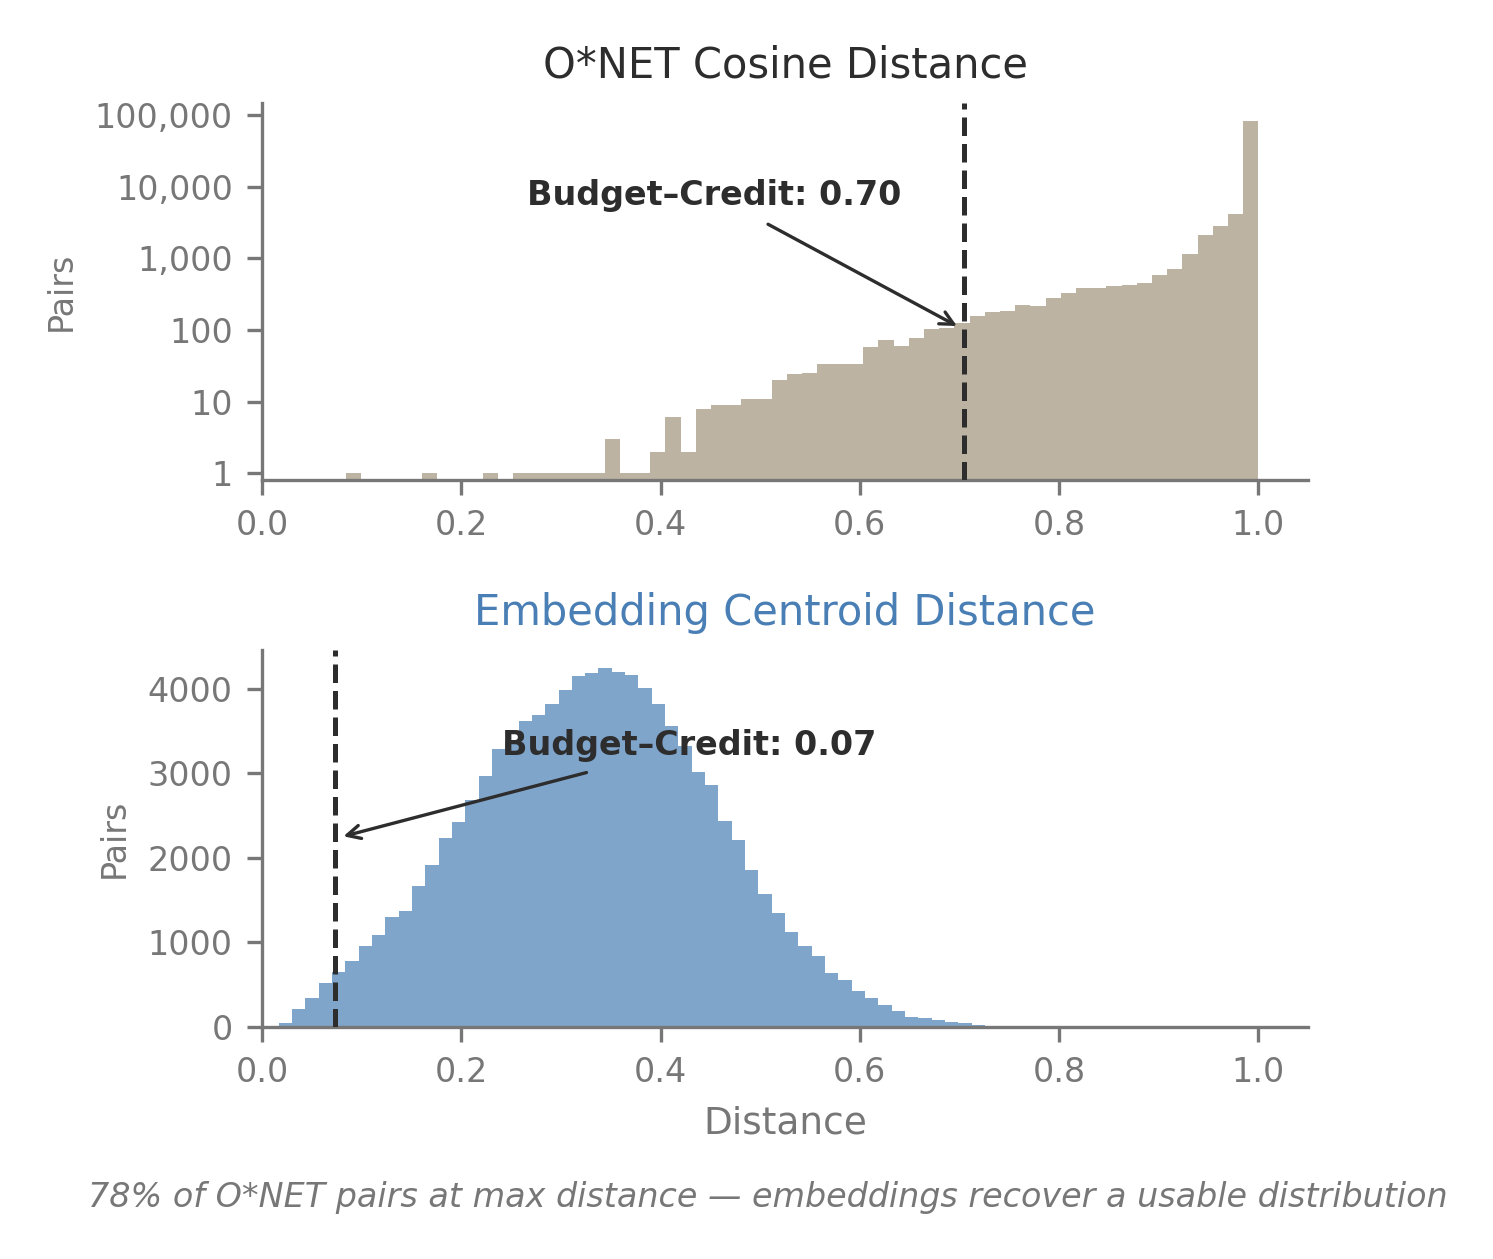
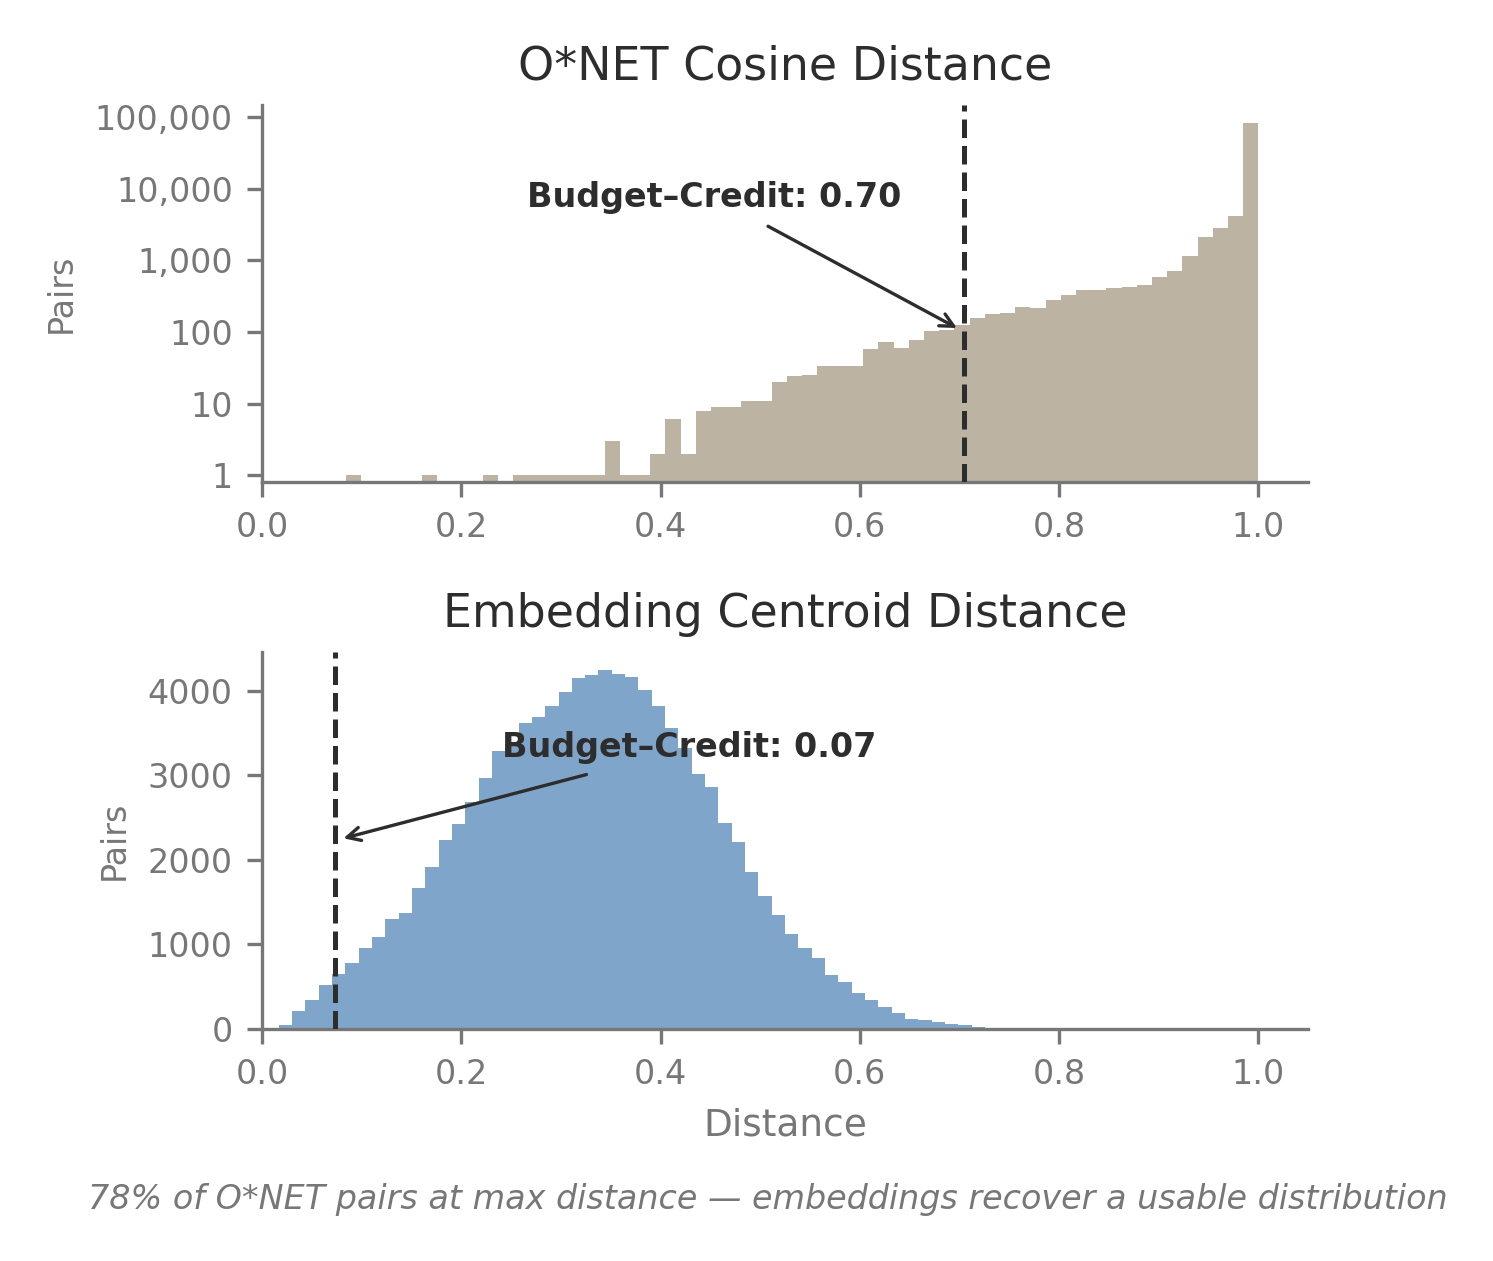
v0.7.10.21: Standardize fonts/colors across all 9 figures
- style.py: axes.labelcolor DARK → MID
- fig3: axis labels use FONT_TITLE
- fig4: value labels FONT_TITLE, ticks FONT_TICK, ylabel via rcParams
- fig5: occupation headers FONT_TITLE, sub-headers/subtitle FONT_NOTE
- fig6: annotations FONT_TICK, titles FONT_TITLE (both DARK), xlabel FONT_LABEL
- fig7: stage labels FONT_TITLE, counts FONT_TICK

diff --git a/figures/fig6_embedding_similarity.py b/figures/fig6_embedding_similarity.py
@@ -9,7 +9,8 @@ sys.path.insert(0, os.path.join(os.path.dirname(__file__), '..'))
 import numpy as np
 import matplotlib.pyplot as plt
 
-from figures.style import setup, PRIMARY, SECONDARY, DARK, MID, GRID, format_log_ticks, add_subtitle
+from figures.style import (setup, PRIMARY, SECONDARY, DARK, MID, GRID, format_log_ticks,
+                           add_subtitle, FONT_TITLE, FONT_LABEL, FONT_TICK)
 
 font = setup()
 
@@ -48,14 +49,14 @@ fig.canvas.draw()
 ax1.annotate(f'Budget\u2013Credit: {d_onet_pair:.2f}',
              xy=(d_onet_pair, 100),
              xytext=(-15, 30), textcoords='offset points',
-             fontsize=8, color=DARK, fontweight='bold', ha='right',
+             fontsize=FONT_TICK, color=DARK, fontweight='bold', ha='right',
              arrowprops=dict(arrowstyle='->', color=DARK, lw=0.8))
-ax1.set_title("O*NET Cosine Distance", fontsize=10, color=DARK, pad=6)
-ax1.set_ylabel('Pairs', fontsize=8, color=MID)
+ax1.set_title("O*NET Cosine Distance", fontsize=FONT_TITLE, color=DARK, pad=6)
+ax1.set_ylabel('Pairs', fontsize=FONT_TICK)
 ax1.set_xlim(0, 1.05)
 format_log_ticks(ax1)
 ax1.set_yticks([1, 10, 100, 1000, 10000, 100000])
-ax1.tick_params(axis='both', labelsize=8)
+ax1.tick_params(axis='both', labelsize=FONT_TICK)
 
 # --- Bottom panel: Embedding Centroid ---
 ax2.hist(embed_vals, bins=60, color=PRIMARY, alpha=0.7, edgecolor='none')
@@ -65,13 +66,13 @@ fig.canvas.draw()
 ax2.annotate(f'Budget\u2013Credit: {d_embed_pair:.2f}',
              xy=(d_embed_pair, ax2.get_ylim()[1] * 0.5),
              xytext=(40, 20), textcoords='offset points',
-             fontsize=8, color=DARK, fontweight='bold',
+             fontsize=FONT_TICK, color=DARK, fontweight='bold',
              arrowprops=dict(arrowstyle='->', color=DARK, lw=0.8))
-ax2.set_title("Embedding Centroid Distance", fontsize=10, color=PRIMARY, pad=6)
-ax2.set_ylabel('Pairs', fontsize=8, color=MID)
-ax2.set_xlabel('Distance', fontsize=9, color=MID)
+ax2.set_title("Embedding Centroid Distance", fontsize=FONT_TITLE, color=DARK, pad=6)
+ax2.set_ylabel('Pairs', fontsize=FONT_TICK)
+ax2.set_xlabel('Distance', fontsize=FONT_LABEL)
 ax2.set_xlim(0, 1.05)
-ax2.tick_params(axis='both', labelsize=8)
+ax2.tick_params(axis='both', labelsize=FONT_TICK)
 
 add_subtitle(fig, '78% of O*NET pairs at max distance — embeddings recover a usable distribution', y=-0.04)
 

diff --git a/figures/fig5_shared_dwas.py b/figures/fig5_shared_dwas.py
@@ -9,7 +9,7 @@ sys.path.insert(0, os.path.join(os.path.dirname(__file__), '..'))
 import matplotlib.pyplot as plt
 import matplotlib.patches as mpatches
 
-from figures.style import setup, PRIMARY, SECONDARY, DARK, MID, GRID
+from figures.style import setup, PRIMARY, SECONDARY, DARK, MID, GRID, FONT_TITLE, FONT_NOTE
 
 font = setup()
 
@@ -57,9 +57,9 @@ def draw_node(ax, x, y, text, color, width=2.6, height=0.7):
 
 # Occupation labels
 ax.text(1.8, 9.3, 'Budget Analysts', ha='center', va='center',
-        fontsize=11, fontweight='bold', color=PRIMARY)
+        fontsize=FONT_TITLE, fontweight='bold', color=PRIMARY)
 ax.text(8.2, 9.3, 'Credit Analysts', ha='center', va='center',
-        fontsize=11, fontweight='bold', color=SECONDARY)
+        fontsize=FONT_TITLE, fontweight='bold', color=SECONDARY)
 
 # Node y-positions (3 rows)
 ys = [7.4, 6.2, 5.0]
@@ -84,11 +84,11 @@ ax.plot([6.65, 6.65], [sep_bot, sep_top], color=GRID, lw=0.8, ls='--', zorder=0)
 
 # Column headers
 ax.text(1.8, 8.35, 'unique', ha='center', va='center',
-        fontsize=7.5, color=PRIMARY, fontstyle='italic')
+        fontsize=FONT_NOTE, color=PRIMARY, fontstyle='italic')
 ax.text(5.0, 8.35, 'shared', ha='center', va='center',
-        fontsize=7.5, color=MID, fontstyle='italic')
+        fontsize=FONT_NOTE, color=MID, fontstyle='italic')
 ax.text(8.2, 8.35, 'unique', ha='center', va='center',
-        fontsize=7.5, color=SECONDARY, fontstyle='italic')
+        fontsize=FONT_NOTE, color=SECONDARY, fontstyle='italic')
 
 # Vertical ellipses indicating more DWAs exist
 ax.text(1.8, 8.05, '⋮', ha='center', va='center', fontsize=10, color=PRIMARY)
@@ -99,7 +99,7 @@ ax.text(8.2, 4.25, '⋮', ha='center', va='center', fontsize=10, color=SECONDARY
 # Subtitle
 ax.text(5.0, 3.8,
         'Only 3 of 19 DWAs overlap — O*NET sees these as distant (d = 0.70)',
-        ha='center', va='center', fontsize=7.5, color=MID, fontstyle='italic')
+        ha='center', va='center', fontsize=FONT_NOTE, color=MID, fontstyle='italic')
 
 plt.tight_layout()
 plt.savefig('figures/fig5_shared_dwas.png', dpi=300, bbox_inches='tight',

diff --git a/figures/fig7_sankey_pipeline.py b/figures/fig7_sankey_pipeline.py
@@ -9,7 +9,7 @@ sys.path.insert(0, os.path.join(os.path.dirname(__file__), '..'))
 import matplotlib.pyplot as plt
 import matplotlib.patches as mpatches
 
-from figures.style import setup, PRIMARY, DARK, MID, GRID
+from figures.style import setup, PRIMARY, DARK, MID, GRID, FONT_TITLE, FONT_TICK
 
 font = setup()
 
@@ -58,12 +58,12 @@ for i, (label, count, pct) in enumerate(stages):
     # Count label above bar
     ax.text(x, y_center + height / 2 + 0.15,
             f'{count:,.0f}', ha='center', va='bottom',
-            fontsize=10, fontweight='bold', color=DARK)
+            fontsize=FONT_TITLE, fontweight='bold', color=DARK)
 
     # Stage label below bar
     ax.text(x, y_center - height / 2 - 0.15,
             label, ha='center', va='top',
-            fontsize=8.5, color=MID, linespacing=1.1)
+            fontsize=FONT_TICK, color=MID, linespacing=1.1)
 
     # Arrow between stages
     if i < len(stages) - 1:
@@ -74,7 +74,7 @@ for i, (label, count, pct) in enumerate(stages):
 final_x = len(stages) - 1
 ax.text(final_x, y_center - 1.3,
         '89,329 verified transitions',
-        ha='center', va='center', fontsize=10, fontweight='bold',
+        ha='center', va='center', fontsize=FONT_TITLE, fontweight='bold',
         color=PRIMARY)
 
 plt.tight_layout()

diff --git a/figures/fig4_scope.py b/figures/fig4_scope.py
@@ -6,7 +6,8 @@ import sys, os
 sys.path.insert(0, os.path.join(os.path.dirname(__file__), '..'))
 
 import matplotlib.pyplot as plt
-from figures.style import setup, PRIMARY, SECONDARY, DARK, MID, add_subtitle
+from figures.style import (setup, PRIMARY, SECONDARY, DARK, MID, add_subtitle,
+                           FONT_TITLE, FONT_TICK)
 
 font = setup()
 
@@ -23,13 +24,13 @@ bars = ax.bar(range(len(labels)), values, color=colors, width=0.6,
 for i, (v, bar) in enumerate(zip(values, bars)):
     ax.text(bar.get_x() + bar.get_width() / 2, v + 0.02,
             f'{v:.2f}', ha='center', va='bottom',
-            fontsize=11, color=DARK, fontweight='bold')
+            fontsize=FONT_TITLE, color=DARK, fontweight='bold')
 
 ax.set_xticks(range(len(labels)))
-ax.set_xticklabels(labels, fontsize=9, color=DARK)
-ax.set_ylabel('Spearman ρ', fontsize=11, color=MID)
+ax.set_xticklabels(labels, fontsize=FONT_TICK)
+ax.set_ylabel('Spearman ρ', fontsize=FONT_TITLE)
 ax.set_ylim(0, 1.0)
-ax.tick_params(axis='y', labelsize=9)
+ax.tick_params(axis='y', labelsize=FONT_TICK)
 ax.tick_params(axis='x', length=0)
 
 plt.tight_layout()

diff --git a/figures/fig3_task_scatter.py b/figures/fig3_task_scatter.py
@@ -14,7 +14,7 @@ from matplotlib.lines import Line2D
 from sklearn.metrics.pairwise import cosine_similarity as cos_sim
 
 from figures.style import (setup, DARK, MID, GRID, PRIMARY, SECONDARY,
-                           RED, ORANGE, GREEN, FONT_TICK, add_subtitle)
+                           RED, ORANGE, GREEN, FONT_TITLE, FONT_TICK, add_subtitle)
 from src.task_space.data.onet import get_dwa_titles
 from src.task_space.data.artifacts import get_embeddings
 from src.task_space.domain import build_dwa_activity_domain
@@ -221,9 +221,9 @@ ax.legend(handles=handles, loc='upper left', fontsize=FONT_TICK, framealpha=0.9,
 
 # Axis labels
 ax.set_xlabel('\u2190 Routine          Non-Routine \u2192',
-              fontsize=11, color=MID, labelpad=8)
+              fontsize=FONT_TITLE, color=MID, labelpad=8)
 ax.set_ylabel('\u2190 Manual          Cognitive \u2192',
-              fontsize=11, color=MID, labelpad=8)
+              fontsize=FONT_TITLE, color=MID, labelpad=8)
 
 # Chrome
 ax.set_xlim(-5.5, 5.5)

diff --git a/figures/style.py b/figures/style.py
@@ -49,7 +49,7 @@ def setup():
     rc = {
         'font.family': font, 'font.size': 14,
         'axes.spines.top': False, 'axes.spines.right': False,
-        'axes.edgecolor': MID, 'axes.labelcolor': DARK,
+        'axes.edgecolor': MID, 'axes.labelcolor': MID,
         'xtick.color': MID, 'ytick.color': MID, 'text.color': DARK,
         'figure.facecolor': BG, 'axes.facecolor': BG,
         'savefig.facecolor': BG, 'savefig.dpi': 300,
